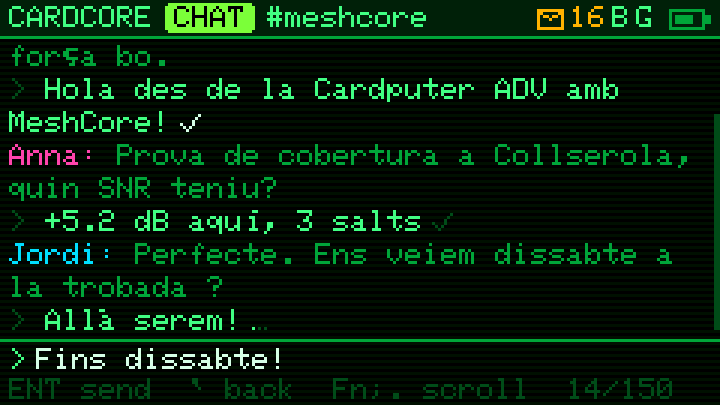
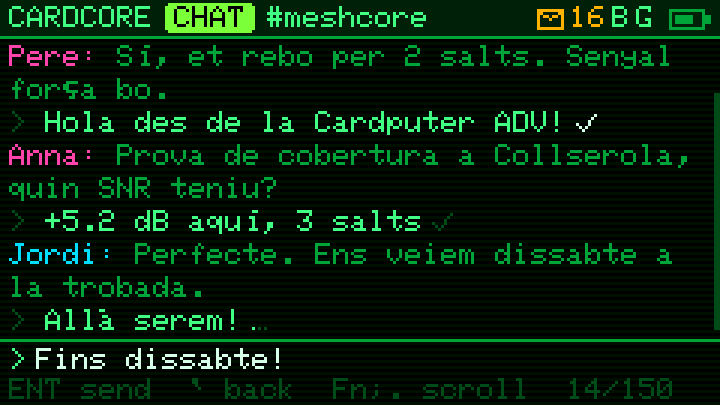
Clean chat screenshot, drop unused amber chat shot, CI build and tag releases

diff --git a/test/host.cpp b/test/host.cpp
@@ -89,11 +89,11 @@ static Msg M(uint32_t ago, bool out, uint8_t st, int hops, int snr4, const char*
 }
 int app_load(const ChatId&, Msg* out, int max) {
   Msg all[] = {M(900, 0, 0, 3, 22, "Marta", "Bon dia! Algú m'escolta des del Tibidabo?"),
-               M(840, 0, 0, 2, 14, "Pere 📡", "Sí, et rebo per 2 salts. Senyal força bo."),
-               M(600, 1, MS_ACKED, -1, 0, "cardcore", "Hola des de la Cardputer ADV amb MeshCore!"),
+               M(840, 0, 0, 2, 14, "Pere", "Sí, et rebo per 2 salts. Senyal força bo."),
+               M(600, 1, MS_ACKED, -1, 0, "cardcore", "Hola des de la Cardputer ADV!"),
                M(420, 0, 0, 4, -18, "Anna", "Prova de cobertura a Collserola, quin SNR teniu?"),
                M(300, 1, MS_SENT, -1, 0, "cardcore", "+5.2 dB aquí, 3 salts"),
-               M(120, 0, 0, 1, 30, "Jordi", "Perfecte. Ens veiem dissabte a la trobada 👋"),
+               M(120, 0, 0, 1, 30, "Jordi", "Perfecte. Ens veiem dissabte a la trobada."),
                M(20, 1, MS_PENDING, -1, 0, "cardcore", "Allà serem!")};
   int n = std::min<int>(max, sizeof all / sizeof *all);
   memcpy(out, all, n * sizeof *out);
@@ -376,6 +376,5 @@ int main(int argc, char** argv) {
   key(K_ESC);
   uiPrefs.lang = 1, uiPrefs.theme = 1, applyTheme();
   key('1'), shot("home_ca_amber");
-  key('2'), key('\n'), shot("chat_ca_amber");
   return 0;
 }

diff --git a/src/ui.cpp b/src/ui.cpp
@@ -1,5 +1,5 @@
 // CARDCORE UI: pages, chat, contacts, metrics, settings on the Cardputer's 240x135 screen.
-// Looks and keys follow FRESNELDRONE: phosphor themes, scanlines, header pill, two-line
+// Look: phosphor themes, scanlines, header pill, two-line
 // footer (status + key hints); ;.,/ are the arrows, ` is back, i is help.
 // test/host.cpp compiles this file against a stub canvas to render the screens.
 #ifndef CARDCORE_HOST
@@ -20,7 +20,7 @@ constexpr int W = 240, H = 135, ROW0 = 15, RH = 11, NROWS = 9;
 static M5Canvas cv(&M5Cardputer.Display);
 #endif
 
-// ── phosphor palette (FRESNELDRONE's) ────────────────────────────────────────
+// ── phosphor palette ─────────────────────────────────────────────────────────
 static constexpr uint16_t rgb(int r, int g, int b) { return ((r & 0xF8) << 8) | ((g & 0xFC) << 3) | (b >> 3); }
 constexpr uint16_t C_BG = 0;
 static uint16_t C_SCAN, C_BAR, C_DIM, C_MID, C_HI, C_HOT, C_WARN;

diff --git a/README.md b/README.md
@@ -4,7 +4,7 @@ MeshCore companion firmware for the **M5Stack Cardputer ADV** with the **Cap LoR
 
 Preconfigured for **MeshCore Catalunya** ([radio config](https://docs.livemap-meshcorecat.com/configuracio-radio/)): 869.618 MHz, BW 62.5 kHz, SF7, CR6, 22 dBm, 2-byte path hashes, with the Public channel. The other community presets are one keypress away (Settings → TEMPLATE).
 
-UI language: English, Català, Español (Settings → LANGUAGE; Català by default). The look and keys follow [FRESNELDRONE](https://github.com/vdo/fresneldrone).
+UI language: English, Català, Español (Settings → LANGUAGE; Català by default).
 
 ## Screens
 
@@ -68,6 +68,10 @@ Rendered by the firmware's own drawing code (`test/host.cpp`).
 Chat history is stored on the microSD card under `/cardcore/` when one is inserted. Without a card it goes to internal flash, keeping the last ~4–8 KB per chat. Grove-port I2C sensors (BME280, SHT4x, INA219…) are picked up for telemetry.
 
 ## Build / flash
+
+Prebuilt binaries are on the [Releases](https://github.com/vdo/cardcore/releases) page. `cardcore-<version>.bin` is the full image: flash it at `0x0` with [ESPConnect](https://thelastoutpostworkshop.github.io/ESPConnect/). `-update.bin` is the app alone, for `0x10000`, and keeps the display and alert preferences.
+
+To build it yourself:
 
 ```sh
 git clone --recursive <this repo>   # MeshCore is a submodule, pinned at v1.18.0
